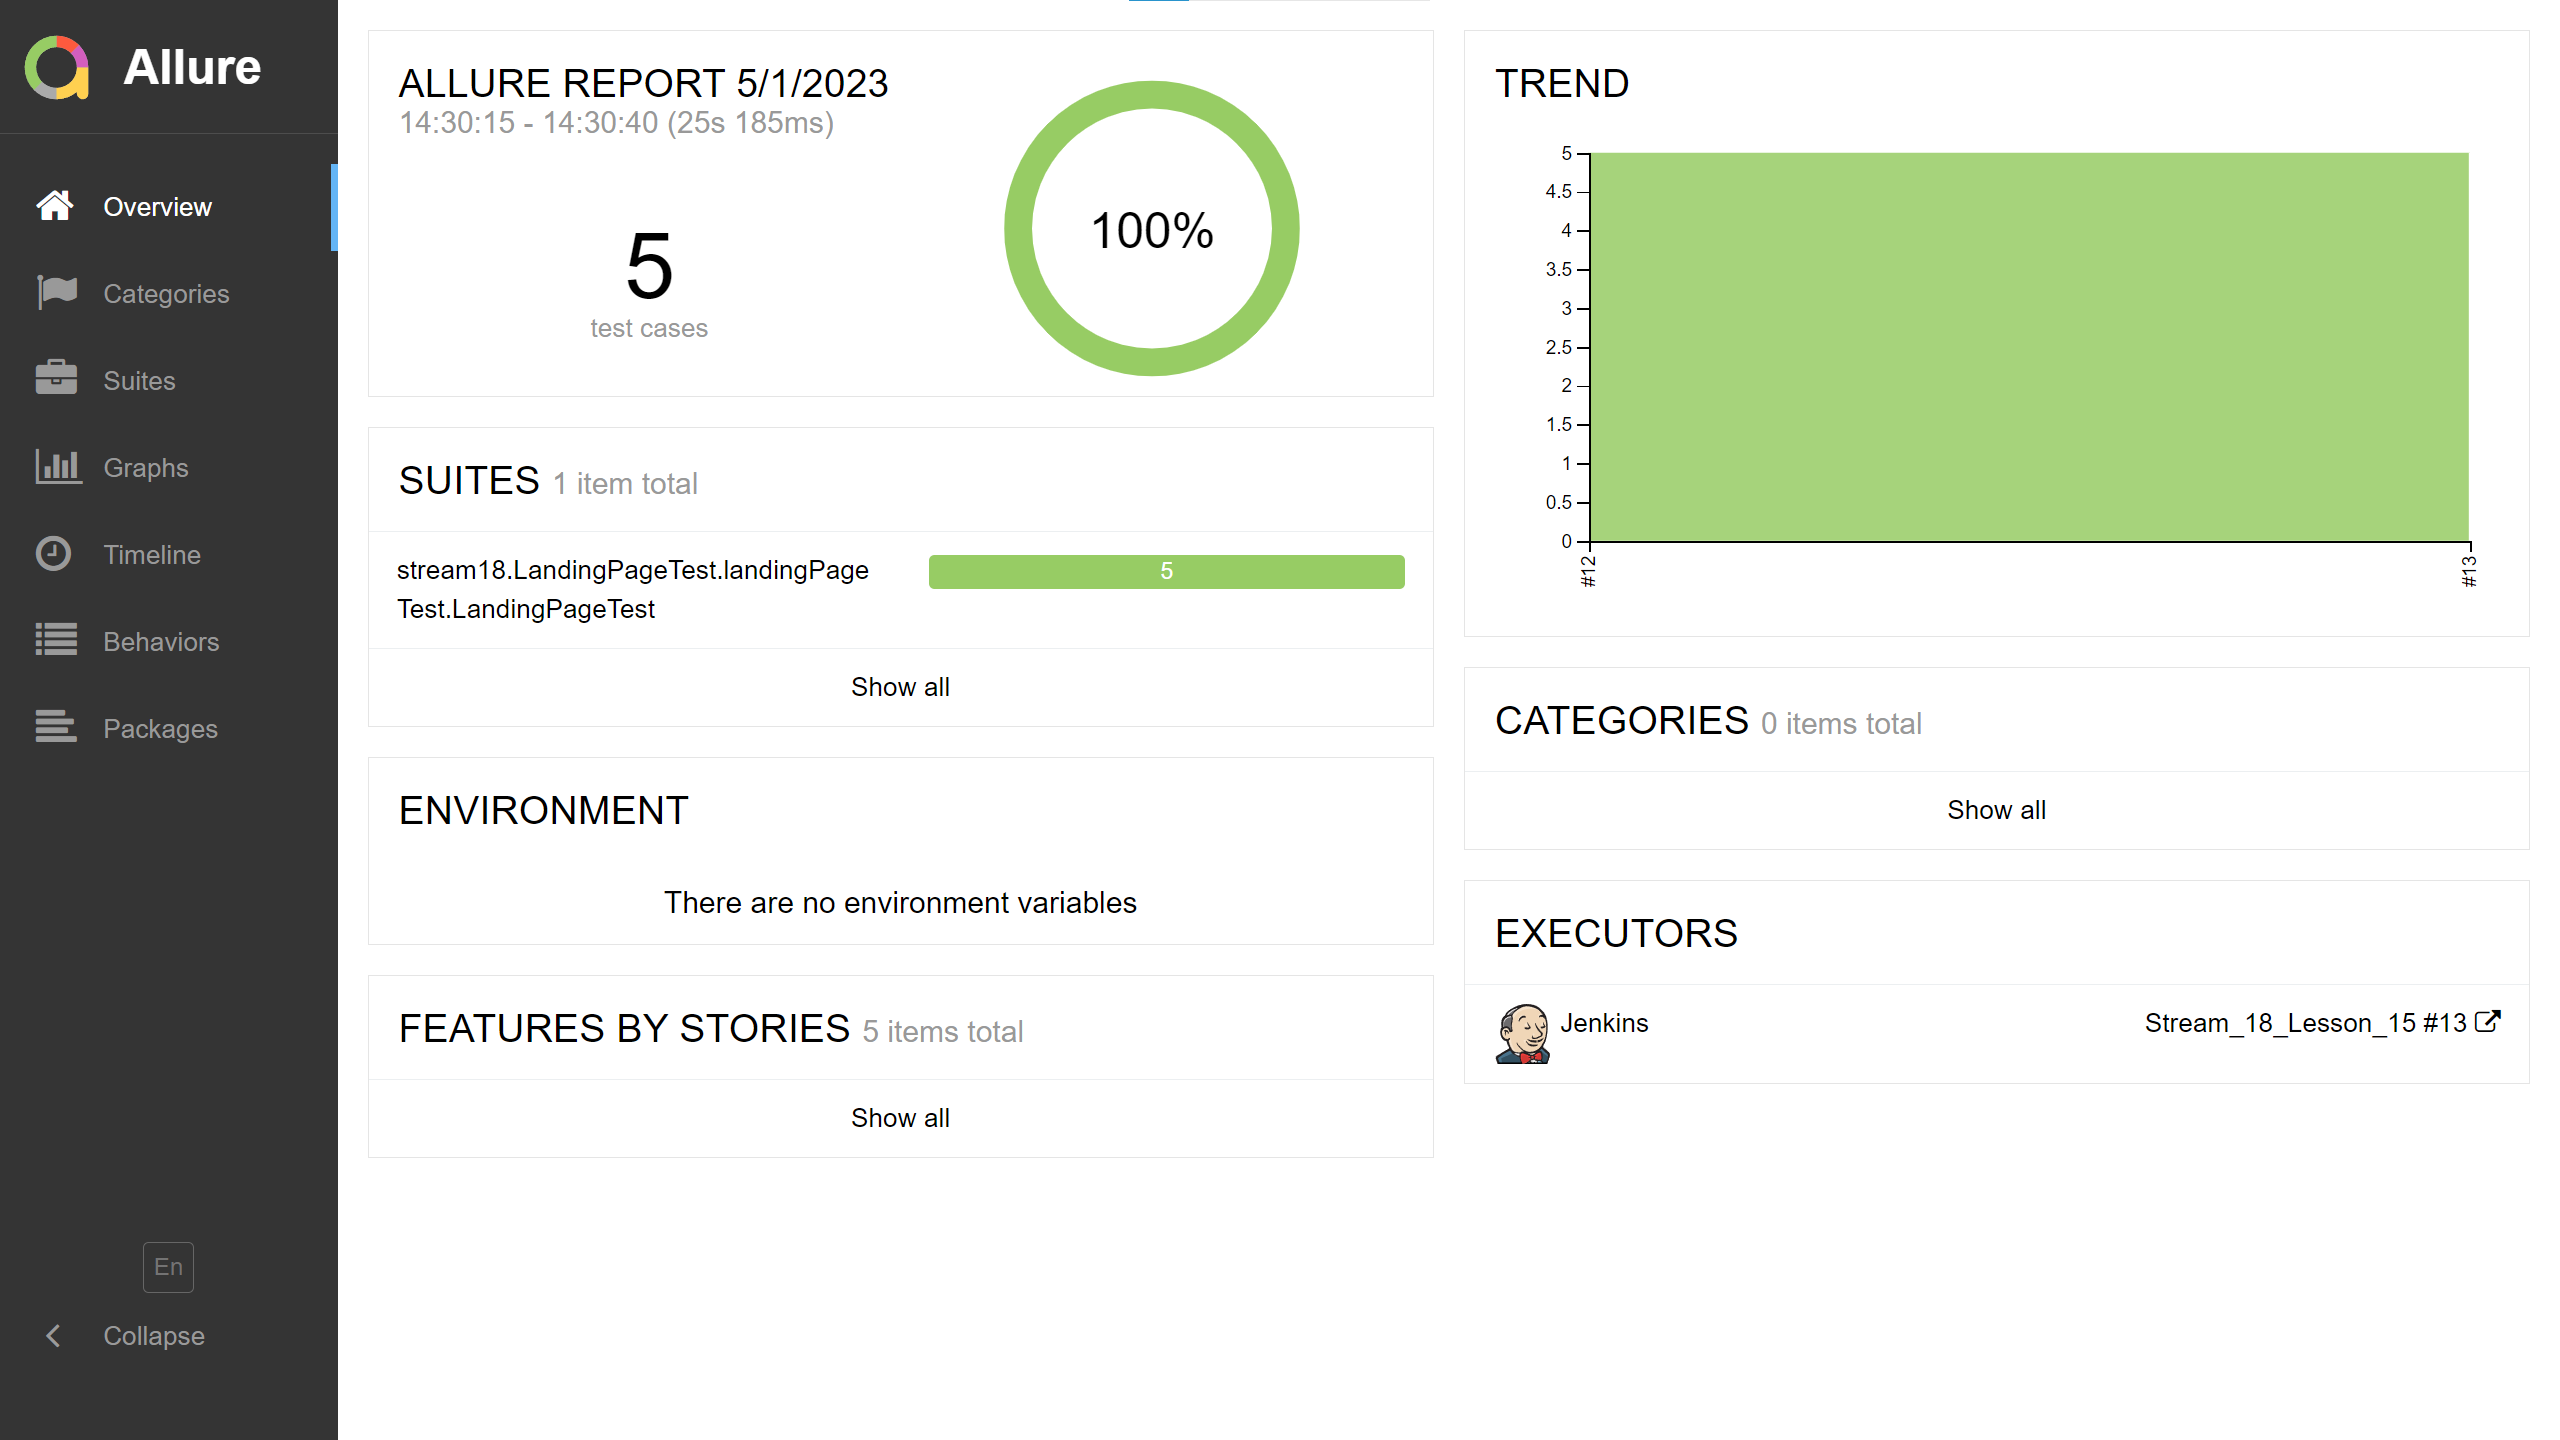
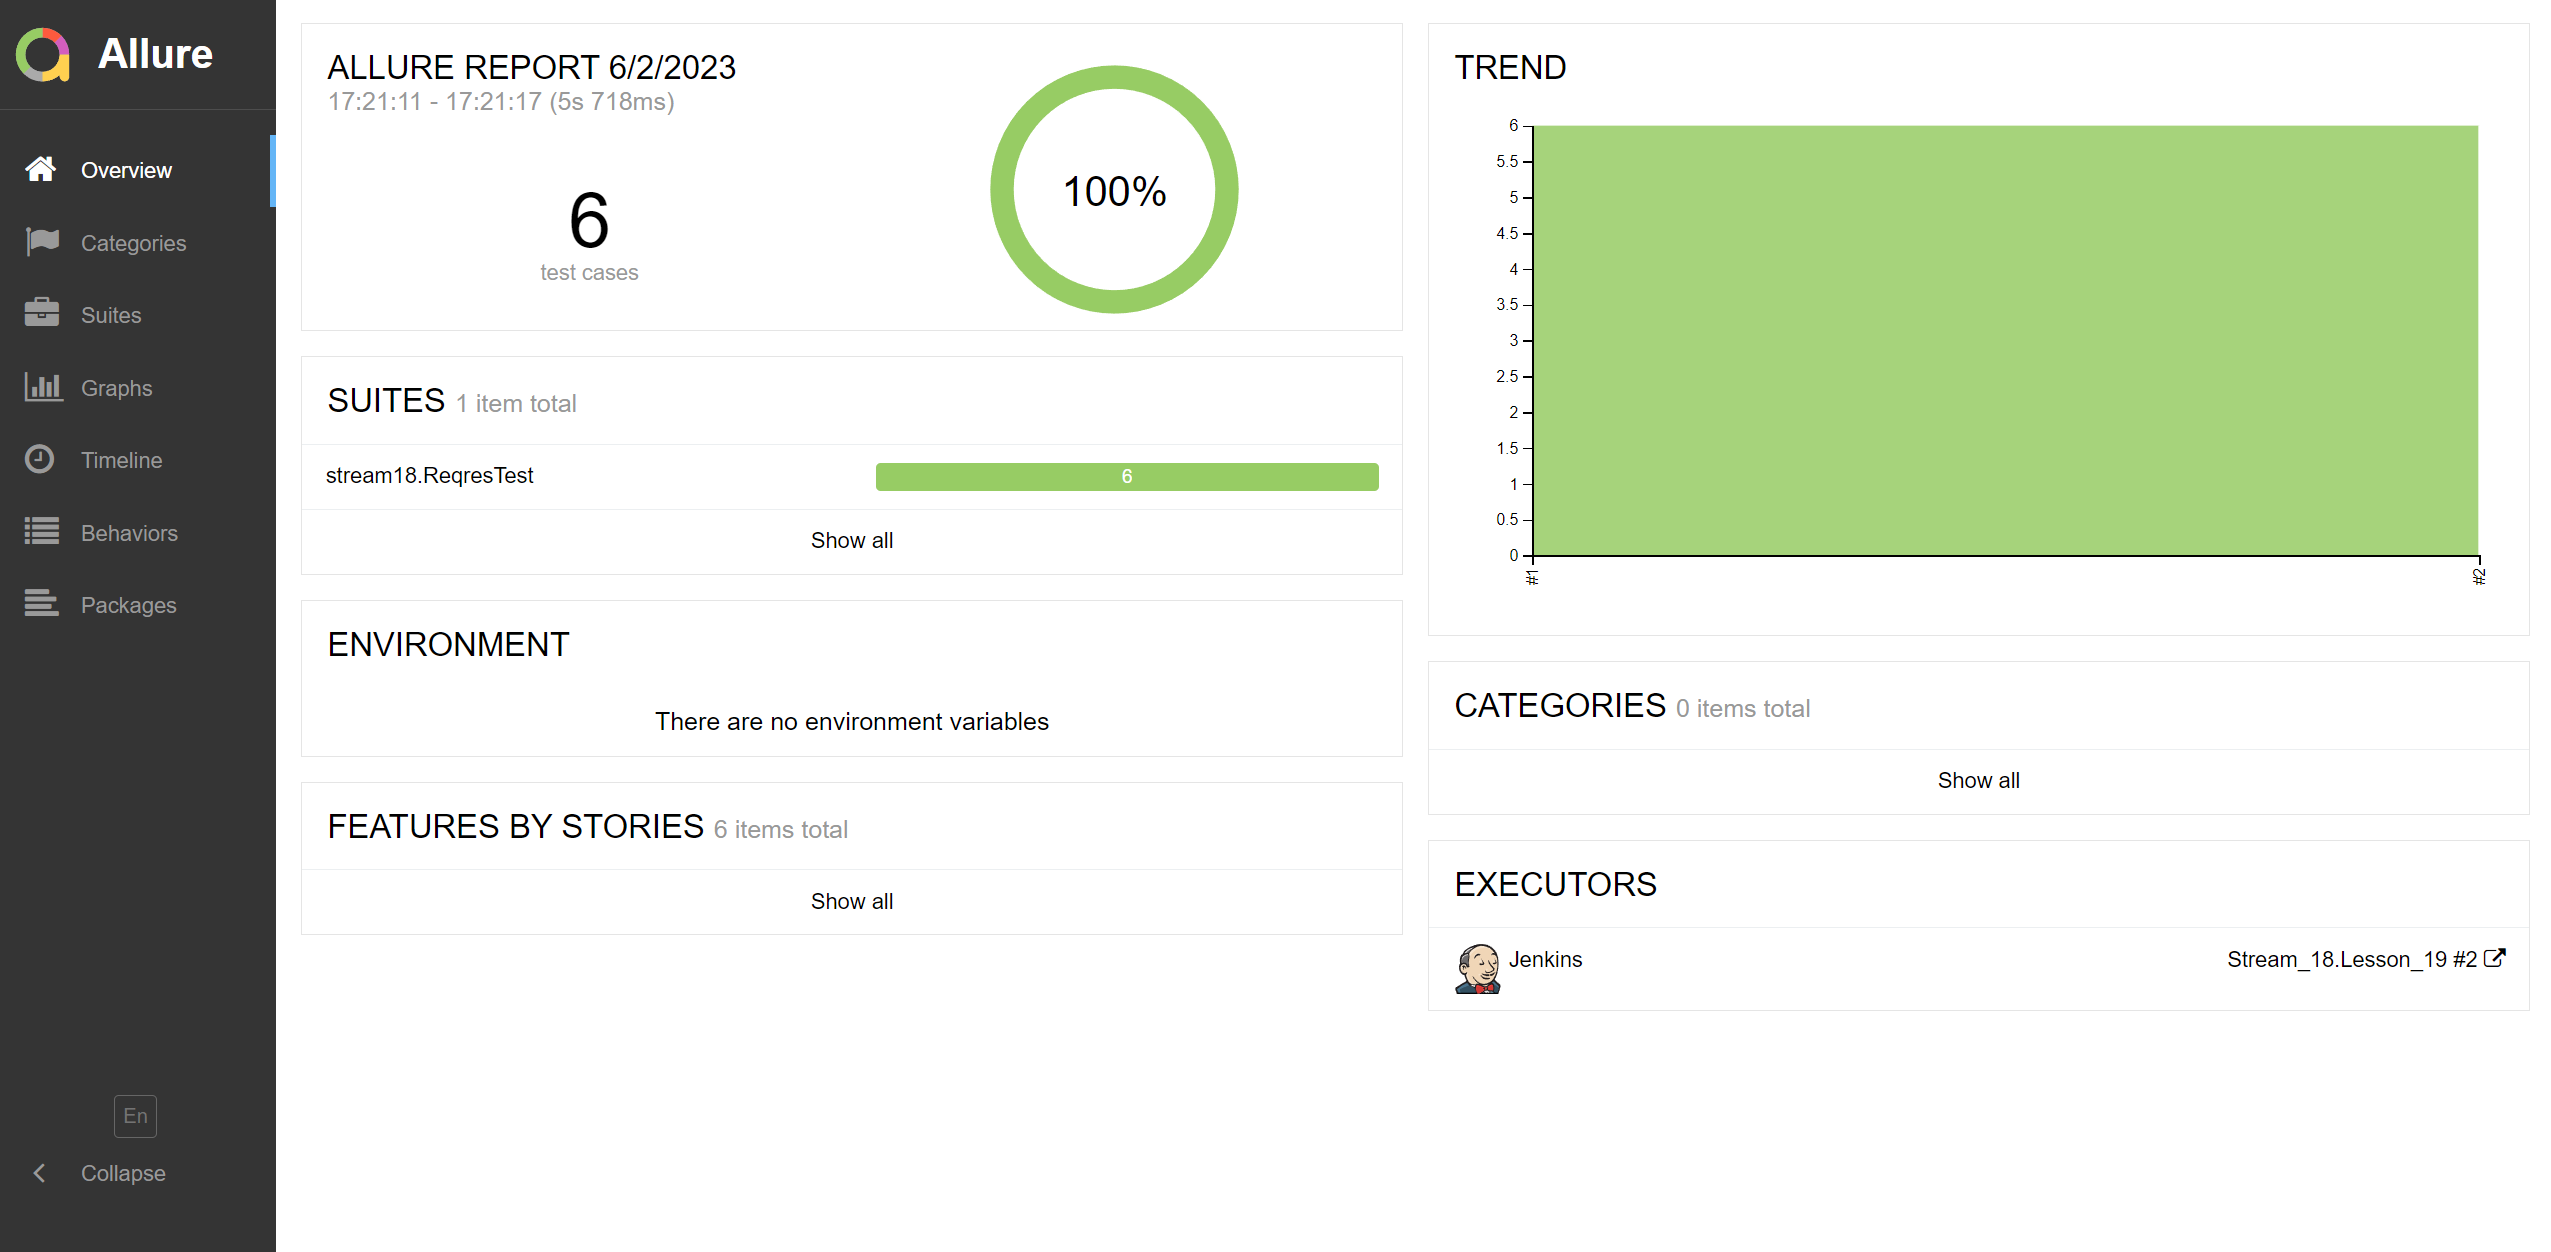
v. 3.1

diff --git a/README.md b/README.md
@@ -5,53 +5,33 @@
 - [Запуск автотестов](#arrow_forward-запуск-автотестов)
 - [Сборка в Jenkins](#-сборка-в-jenkins)
 - [Пример Allure-отчета](#-пример-allure-отчета)
-- [Интеграция с Allure TestOps](#-интеграция-с-allure-testOps)
-- [Интеграция с Jira](#-интеграция-с-jira)
-- [Уведомления в Telegram](#-уведомления-в-telegram-с-использованием-бота)
-- [Видео примера запуска тестов в Selenoid](#-видео-примера-запуска-тестов-в-Selenoid)
 
 ## :computer: Используемый стек
 
 <p align="center">
 <img width="6%" title="IntelliJ IDEA" src="images/logo/Intelij_IDEA.svg">
 <img width="6%" title="Java" src="images/logo/Java.svg">
-<img width="6%" title="Selenide" src="images/logo/Selenide.svg">
-<img width="6%" title="Selenoid" src="images/logo/Selenoid.svg">
 <img width="6%" title="Allure Report" src="images/logo/Allure_Report.svg">
-<img width="5%" title="Allure TestOps" src="images/logo/AllureTestOps.svg">
 <img width="6%" title="Gradle" src="images/logo/Gradle.svg">
 <img width="6%" title="JUnit5" src="images/logo/JUnit5.svg">
 <img width="6%" title="GitHub" src="images/logo/GitHub.svg">
 <img width="6%" title="Jenkins" src="images/logo/Jenkins.svg">
-<img width="6%" title="Telegram" src="images/logo/Telegram.svg"> 
-<img width="5%" title="Jira" src="images/logo/Jira.svg">
 </p>
 
-Тесты в данном проекте написаны на языке <code>Java</code>, сборщик - <code>Gradle</code>. Так же были использованы фреймворки <code>JUnit 5</code> и [Selenide](https://selenide.org/).
-При прогоне тестов браузер запускается не локально, а в [Selenoid](https://aerokube.com/selenoid/).
-Для удаленного запуска реализована джоба в <code>Jenkins</code> с формированием Allure-отчета и отправкой результатов в <code>Telegram</code> при помощи бота. Так же реализована интеграция с <code>Allure TestOps</code> и <code>Jira</code>
+Тесты в данном проекте написаны на языке <code>Java</code>, сборщик - <code>Gradle</code>. Так же были использованы фреймворки <code>JUnit 5</code>.
+Для удаленного запуска реализована джоба в <code>Jenkins</code> с формированием Allure-отчета.
 
 Содержание Allure-отчета:
 * Шаги теста;
-* Скриншот страницы на последнем шаге;
-* Page Source;
-* Логи браузерной консоли;
-* Видео выполнения автотеста.
+* Полный вид отправки запроса;
+* Полный вид полученного ответа;
 
 ## :arrow_forward: Запуск автотестов
 
 ### Запуск тестов из терминала
 ```
-gradle clean ofd_tests_test
+gradle clean api_tests
 ```
-При выполнении данной команды в терминале IDE тесты запустятся удаленно в <code>Selenoid</code>. 
-
-### Установленная конфигурация
-
-* Браузер - <code>chrome</code>;
-* Версия браузера - <code>100.0</code>;
-* Расширение окна браузера - <code>1920x1080</code>.
-
 
 ## <img width="4%" style="vertical-align:middle" title="Jenkins" src="images/logo/Jenkins.svg"> Сборка в Jenkins
 <p align="center">
@@ -63,43 +43,4 @@ gradle clean ofd_tests_test
 
 <p align="center">
 <img title="Allure Overview" src="images/screens/allureReportMain.png">
-</p>
-
-## <img width="4%" style="vertical-align:middle" title="Allure TestOps" src="images/logo/AllureTestOps.svg"> Интеграция с Allure TestOps
-
-Выполнена интеграция сборки <code>Jenkins</code> с <code>Allure TestOps</code>, так при каждом запуске автотестов результаты можно посмотреть в приложении. 
-На Dashboard в <code>Allure TestOps</code> видна статистика сколько всего тестов, сколько из них добавлены и проходятся вручную, а сколько автоматизированы. Новые тесты, а так же результаты прогона приходят по интеграции при каждом запуске сборки.
-
-<p align="center">
-<img title="Allure TestOps DashBoard" src="images/screens/allureTestOpsDB.png">
-</p>
-
-### Результат выполнения автотеста
-
-<p align="center">
-<img title="Test Results in Alure TestOps" src="images/screens/allureTestOpsTests.png">
-</p>
-
-## <img width="4%" style="vertical-align:middle" title="Jira" src="images/logo/Jira.svg"> Интеграция с Jira
-
-Реализована интеграция <code>Allure TestOps</code> с <code>Jira</code>, таким образом, что в тикете можно посмотреть какие тест-кейсы были написаны в рамках задачи и результат их прогона.
-
-<p align="center">
-<img title="Jira Task" src="images/screens/jiraTask.png">
-</p>
-
-
-### <img width="4%" style="vertical-align:middle" title="Telegram" src="images/logo/Telegram.svg"> Уведомления в Telegram с использованием бота
-
-После завершения сборки специальный бот, созданный в <code>Telegram</code>, автоматически обрабатывает и отправляет сообщение с результатом.
-
-<p align="center">
-<img width="70%" title="Telegram Notifications" src="images/screens/notificationExample.png">
-</p>
-
-### <img width="4%" style="vertical-align:middle" title="Selenoid" src="images/logo/Selenoid.svg"> Видео примера запуска тестов в Selenoid
-
-К каждому тесту в отчете прилагается видео прогона.
-<p align="center">
-  <img title="Selenoid Video" src="images/screens/videoExample.gif">
 </p>
